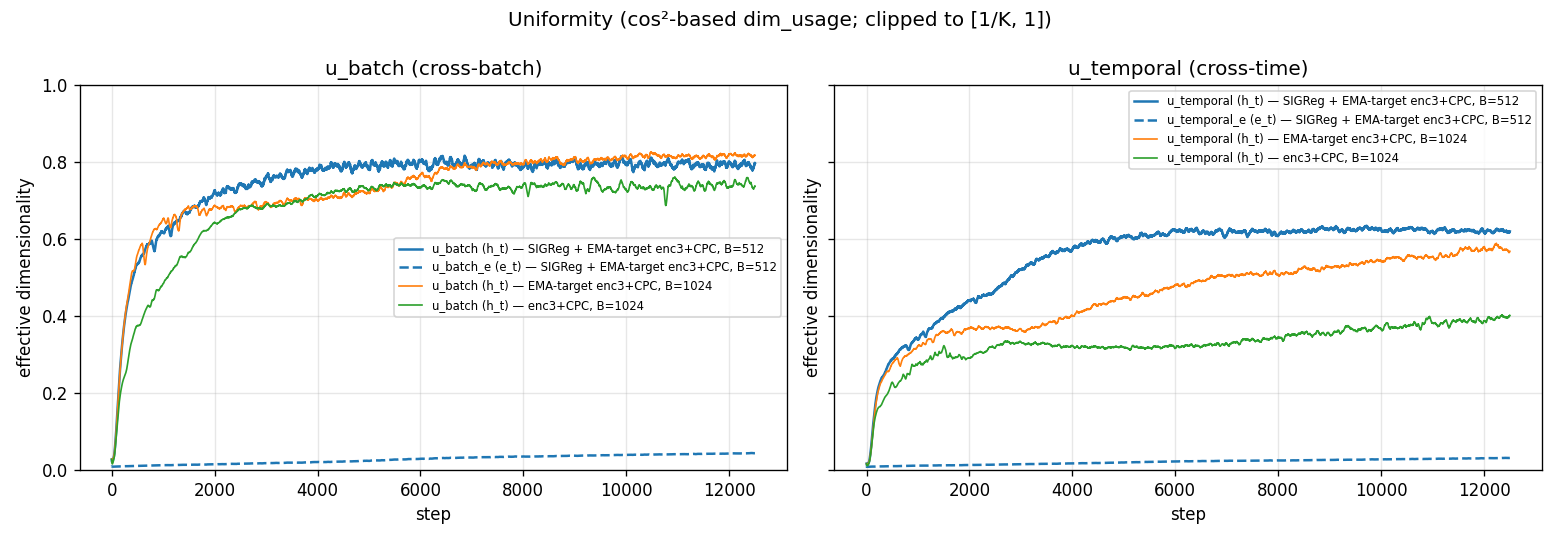
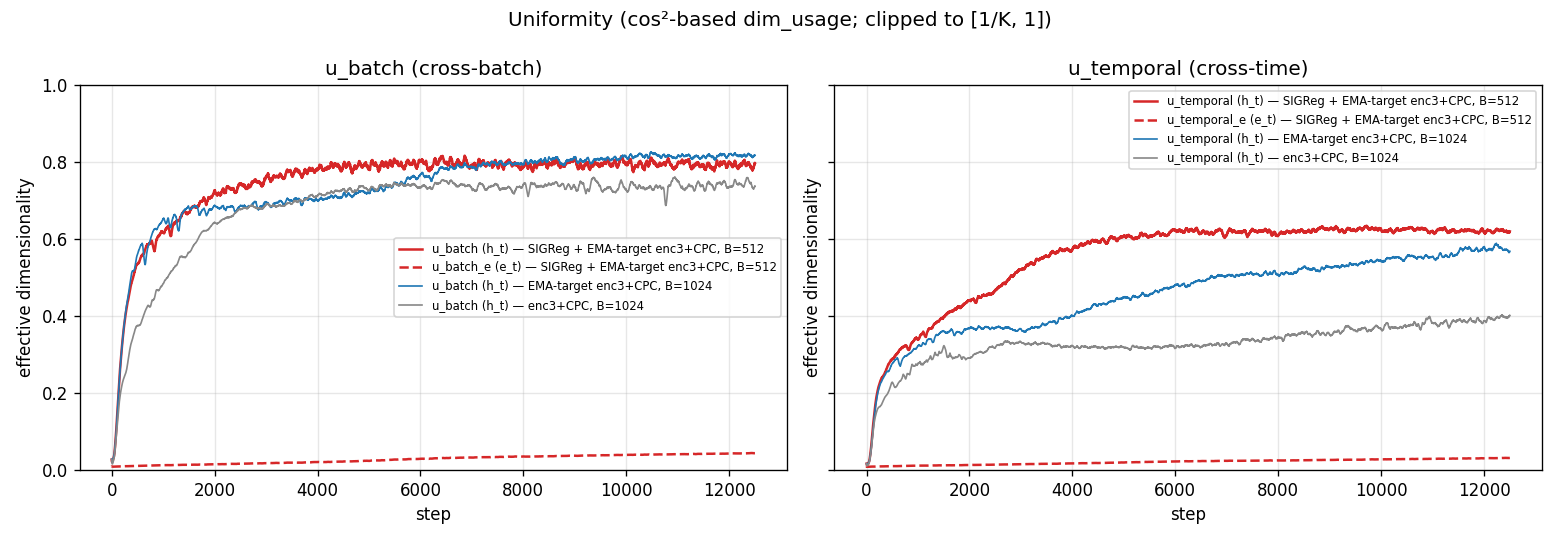
exp(#355): address #356 round-4 review — colours + verdict + prose
- build_report.py: explicit grey/blue/red colour map shared across loss,
  uniformity, gm_rel_mase, perdomain_radar plots
- loss_curve.png, uniformity.png regenerated with consistent scheme
- verdict: quantitative deltas (≤0.006, all four Δ values) + sphere-side
  reading (h_t 0.80 vs 0.82, e_t at ~17× 1/K)
- §Dimension usage: drop redundant plot-restating sentence
- Annex B: drop "issue spec asks for the single B=512 arm" journey clause

diff --git a/experiments/2026-06-20_lejepa_sigreg/scripts/build_report.py b/experiments/2026-06-20_lejepa_sigreg/scripts/build_report.py
@@ -127,19 +127,26 @@ def _load_concat(csv_path: Path | None) -> pd.DataFrame | None:
               .sort_values("step").reset_index(drop=True))
 
 
+ARM_COLOR = {
+    "cpc_enc3":    "#888888",  # grey
+    "ema_enc3":    "#1f77b4",  # blue
+    "sigreg_enc3": "#d62728",  # red
+}
+
+
 def plot_loss_curves(sigreg_csv: Path, ema_csv: Path | None, cpc_csv: Path | None, out: Path):
     fig, ax = plt.subplots(figsize=(8, 4.5))
     s = pd.read_csv(sigreg_csv)
     ax.plot(s["step"], s["loss"].rolling(50, min_periods=1).mean(),
-            label=ARM_LABEL["sigreg_enc3"], color="C0", lw=1.5)
+            label=ARM_LABEL["sigreg_enc3"], color=ARM_COLOR["sigreg_enc3"], lw=1.5)
     e = _load_concat(ema_csv)
     if e is not None:
         ax.plot(e["step"], e["loss"].rolling(50, min_periods=1).mean(),
-                label=ARM_LABEL["ema_enc3"], color="C1", lw=1.5)
+                label=ARM_LABEL["ema_enc3"], color=ARM_COLOR["ema_enc3"], lw=1.5)
     c = _load_concat(cpc_csv)
     if c is not None:
         ax.plot(c["step"], c["loss"].rolling(50, min_periods=1).mean(),
-                label=ARM_LABEL["cpc_enc3"], color="C2", lw=1.5)
+                label=ARM_LABEL["cpc_enc3"], color=ARM_COLOR["cpc_enc3"], lw=1.5)
     ax.set_xlabel("step"); ax.set_ylabel("loss (50-step rolling mean)")
     ax.set_title("Training loss")
     ax.legend(); ax.grid(alpha=0.3)
@@ -154,17 +161,20 @@ def plot_uniformity(sigreg_csv: Path, ema_csv: Path | None, cpc_csv: Path | None
     sig_lab = ARM_LABEL["sigreg_enc3"]
     ema_lab = ARM_LABEL["ema_enc3"]
     cpc_lab = ARM_LABEL["cpc_enc3"]
+    sig_col = ARM_COLOR["sigreg_enc3"]
+    ema_col = ARM_COLOR["ema_enc3"]
+    cpc_col = ARM_COLOR["cpc_enc3"]
     for ax, kind in zip(axes, ("batch", "temporal")):
         ax.plot(s["step"], s[f"u_{kind}"].rolling(50, min_periods=1).mean(),
-                label=f"u_{kind} (h_t) — {sig_lab}", color="C0", lw=1.5)
+                label=f"u_{kind} (h_t) — {sig_lab}", color=sig_col, lw=1.5)
         ax.plot(s["step"], s[f"u_{kind}_e"].rolling(50, min_periods=1).mean(),
-                label=f"u_{kind}_e (e_t) — {sig_lab}", color="C0", lw=1.5, ls="--")
+                label=f"u_{kind}_e (e_t) — {sig_lab}", color=sig_col, lw=1.5, ls="--")
         if e is not None and f"u_{kind}" in e.columns:
             ax.plot(e["step"], e[f"u_{kind}"].rolling(50, min_periods=1).mean(),
-                    label=f"u_{kind} (h_t) — {ema_lab}", color="C1", lw=1.0)
+                    label=f"u_{kind} (h_t) — {ema_lab}", color=ema_col, lw=1.0)
         if c is not None and f"u_{kind}" in c.columns:
             ax.plot(c["step"], c[f"u_{kind}"].rolling(50, min_periods=1).mean(),
-                    label=f"u_{kind} (h_t) — {cpc_lab}", color="C2", lw=1.0)
+                    label=f"u_{kind} (h_t) — {cpc_lab}", color=cpc_col, lw=1.0)
         ax.set_xlabel("step")
         ax.set_ylabel("effective dimensionality")
         ax.set_title(f"u_{kind} ({'cross-batch' if kind=='batch' else 'cross-time'})")
@@ -182,13 +192,12 @@ def plot_gm_bars(rows: list[dict], out: Path):
     fig, ax = plt.subplots(figsize=(9, 4.5))
     x = np.arange(len(cells))
     w = 0.27
-    colors = {"cpc_enc3": "#888888", "ema_enc3": "#1f77b4", "sigreg_enc3": "#d62728"}
     for i, arm in enumerate(arms_order):
         vals = []
         for head, ckpt in cells:
             r = df[(df["arm"] == arm) & (df["head"] == head) & (df["ckpt"] == ckpt)]
             vals.append(r["gm"].values[0] if len(r) else np.nan)
-        ax.bar(x + (i - 1) * w, vals, w, label=ARM_LABEL[arm], color=colors[arm])
+        ax.bar(x + (i - 1) * w, vals, w, label=ARM_LABEL[arm], color=ARM_COLOR[arm])
         for xi, vi in zip(x + (i - 1) * w, vals):
             if not np.isnan(vi):
                 ax.text(xi, vi + 0.003, f"{vi:.4f}",
@@ -248,11 +257,10 @@ def plot_perdomain_radar(
     """2 panels (2L | 6L), 6 curves each (3 arms × {best, last})."""
     from matplotlib.lines import Line2D
     HEADS = ["2L", "6L"]
-    GREY, BLUE, RED = "#888888", "#1f77b4", "#d62728"
     ARMS = [  # (arm-key, root, tag, colour)
-        ("cpc_enc3",    cpc_results, cpc_tag, GREY),
-        ("ema_enc3",    ema_results, ema_tag, BLUE),
-        ("sigreg_enc3", sig_results, sig_tag, RED),
+        ("cpc_enc3",    cpc_results, cpc_tag, ARM_COLOR["cpc_enc3"]),
+        ("ema_enc3",    ema_results, ema_tag, ARM_COLOR["ema_enc3"]),
+        ("sigreg_enc3", sig_results, sig_tag, ARM_COLOR["sigreg_enc3"]),
     ]
     CKPTS = [("", "-"), ("_last", "--")]
     fig, axes = plt.subplots(1, 2, figsize=(15, 8), subplot_kw=dict(polar=True))

diff --git a/reports/2026-06-20_lejepa_sigreg/lejepa_sigreg.md b/reports/2026-06-20_lejepa_sigreg/lejepa_sigreg.md
@@ -1,6 +1,6 @@
 # LeJEPA spherical regulariser at half batch size
 
-Does adding a spherical regulariser on the patch-embed and on the encoder output, with batch cut from 1024 to 512, keep the GIFT-Eval full-97 score in the same neighbourhood as the B=1024 reference and fill the latent sphere? The four-cell head-to-head does not separate the SIGReg + B=512 arm from the EMA-target B=1024 reference in either direction.
+Does adding a spherical regulariser on the patch-embed and on the encoder output, with batch cut from 1024 to 512, keep the GIFT-Eval full-97 score within noise of the B=1024 reference and fill the latent sphere? GM-Rel MASE is within ≤0.006 of the EMA-target B=1024 reference in every cell (SIGReg below it in all four: Δ = −0.0004, −0.0059, −0.0033, −0.0041 at 2L/best, 2L/last, 6L/best, 6L/last). `h_t` fills the sphere to the same extent as the EMA-target reference (`u_batch` ends at 0.80 vs 0.82, `u_temporal` at 0.62 vs 0.57); `e_t` stays at ~17× `1/K` (`u_batch_e` 0.0438, `u_temporal_e` 0.0315).
 
 ## Result
 
@@ -35,8 +35,6 @@ GM-MASE (geometric mean of per-config `MASE[0.5]` across 97 configs; lower = bet
 ## Dimension usage
 
 ![Cross-batch (left) and cross-time (right) uniformity over training; h_t solid vs e_t dashed for the SIGReg arm, h_t overlays for the two reference arms](plots/uniformity.png)
-
-Both `e_t` curves (`u_batch_e`, `u_temporal_e`) stay low and rise only slowly; both `h_t` curves (`u_batch`, `u_temporal`) climb.
 
 ## Training loss
 
@@ -77,7 +75,7 @@ SIGReg arm training CSV: `runs/bb_allt08_xftrip_nobn_enc3_emateach_sigreg_qk_aon
 
 ### B. Attribution — three axes move together
 
-The arm changes three things vs the EMA-target B=1024 reference: SIGReg on `e_t`, SIGReg on `h_t`, batch 1024 → 512. The four-cell GM-Rel MASE table measures the joint perturbation. The issue spec asks for the single B=512 arm; no-SIGReg B=512 and SIGReg B=1024 controls were not run.
+The arm changes three things vs the EMA-target B=1024 reference: SIGReg on `e_t`, SIGReg on `h_t`, batch 1024 → 512. The four-cell GM-Rel MASE table measures the joint perturbation. No-SIGReg B=512 and SIGReg B=1024 controls were not run.
 
 ### C. Metric availability from the wrapper artefacts
 
